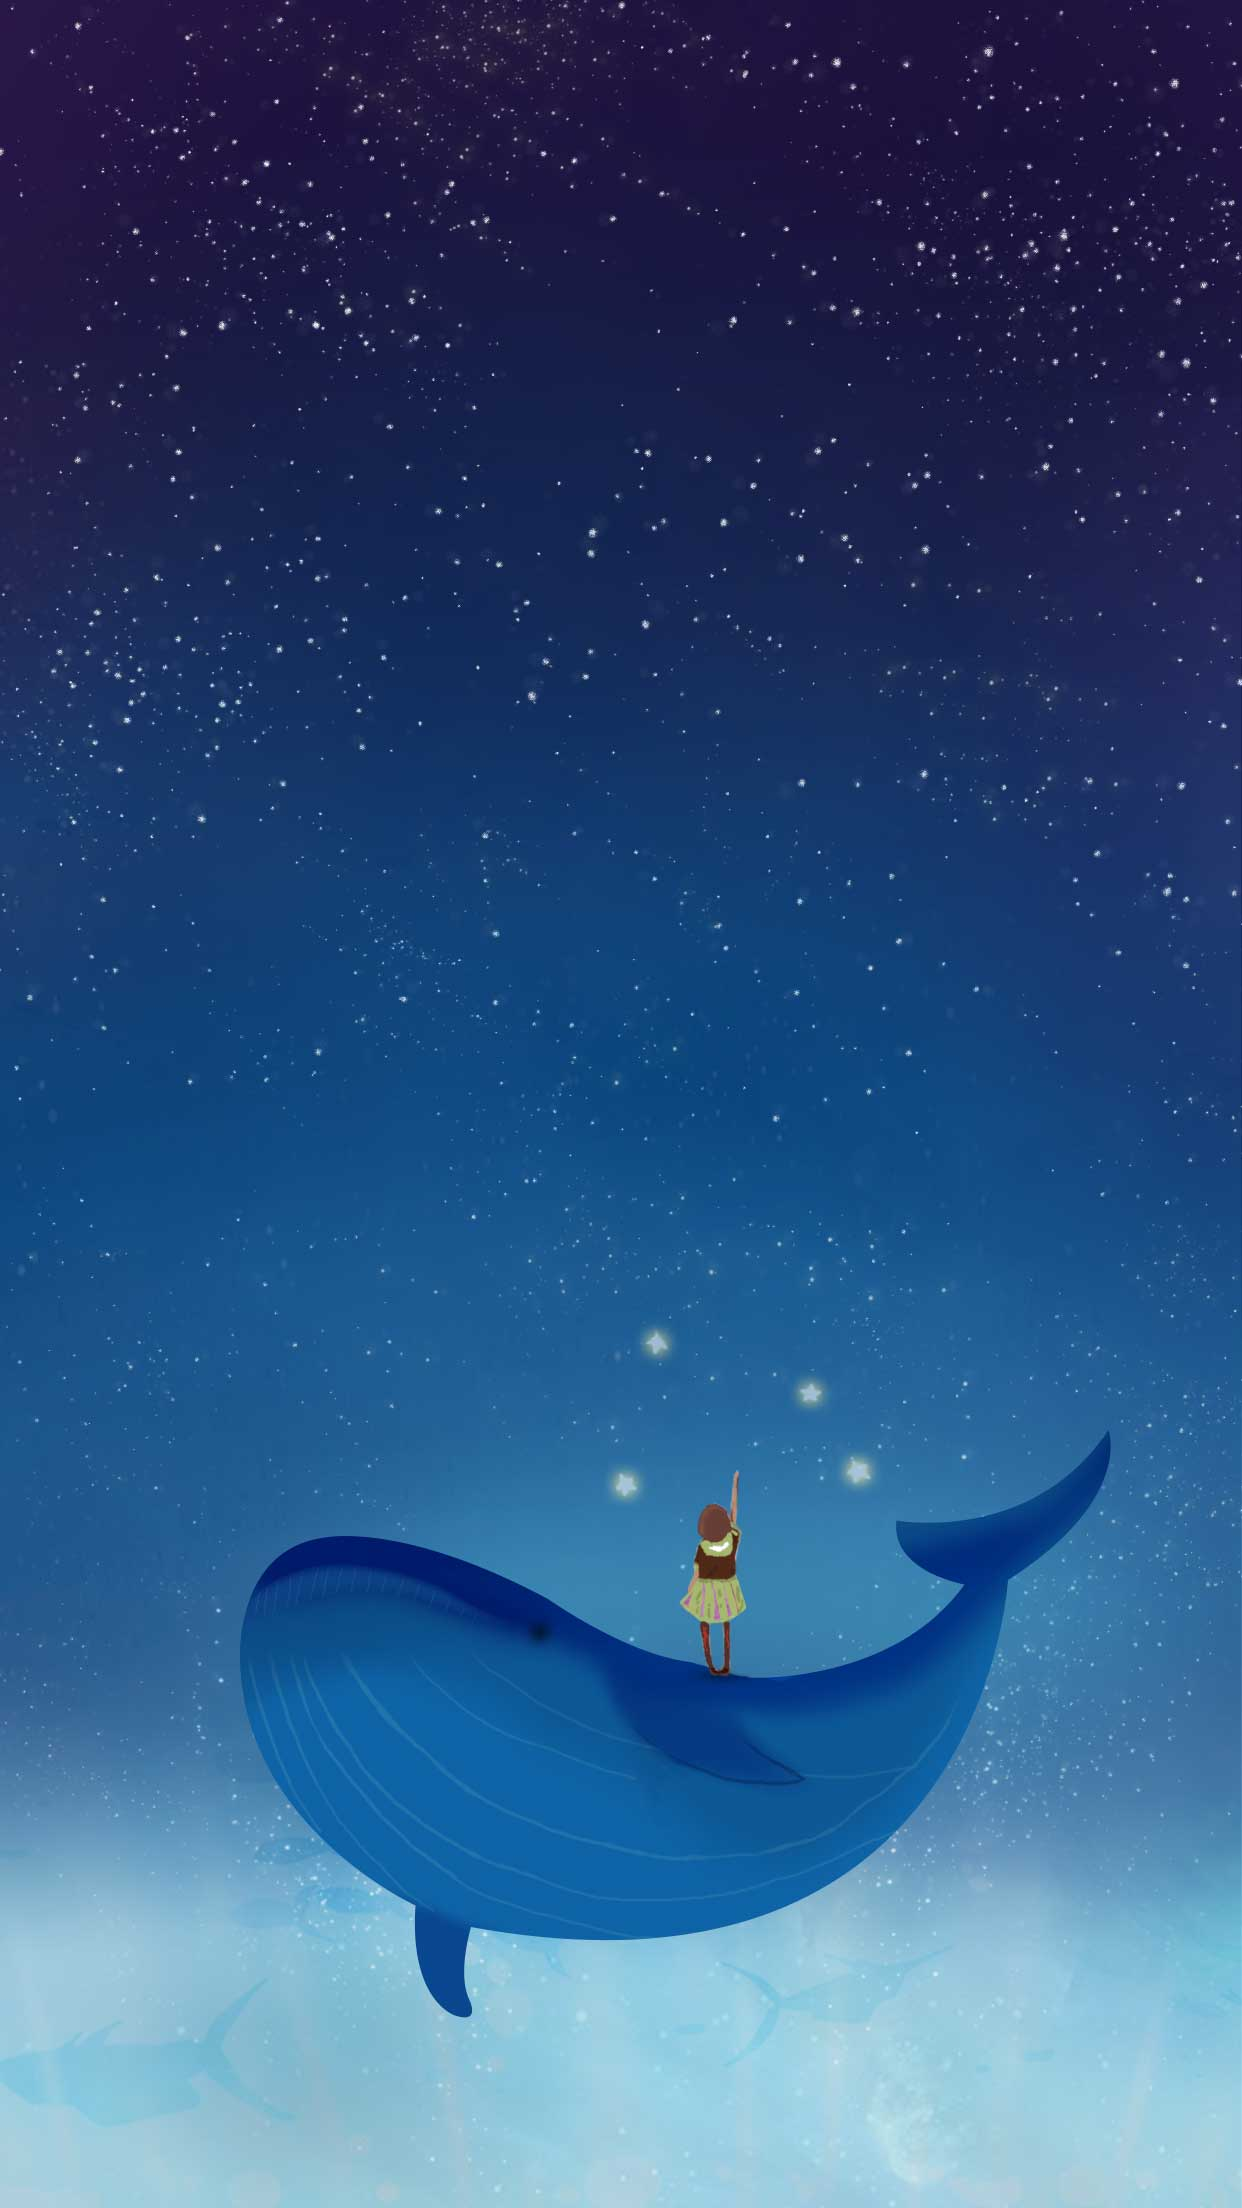
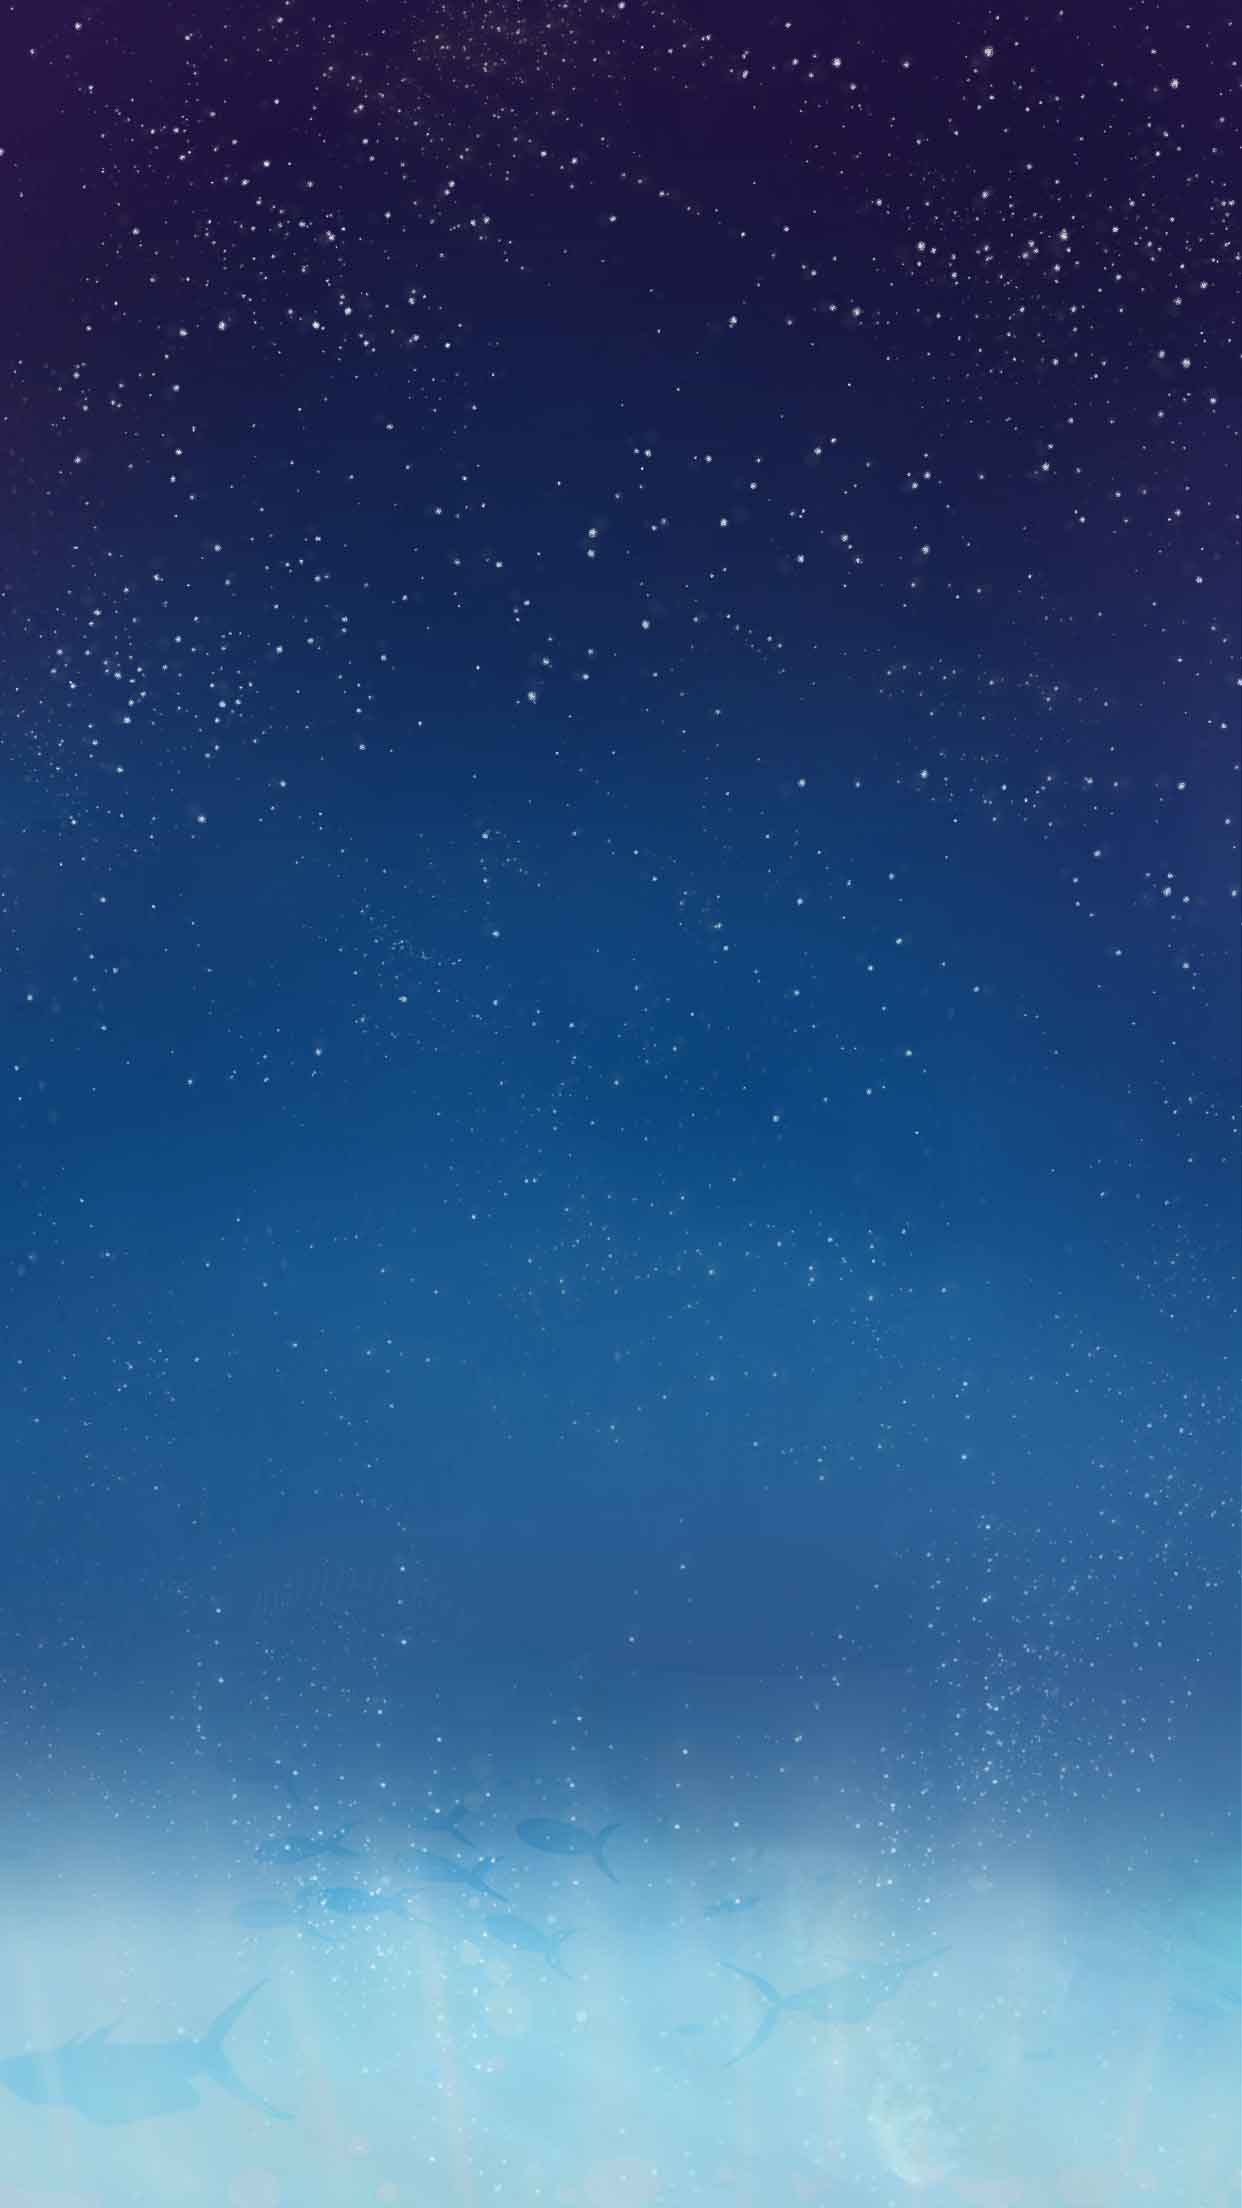
ci
ci

Changed region(s): [[0.1836, 0.625, 0.8873, 0.9688], [0.5201, 0.5938, 0.5507, 0.625]]

diff --git a/apps/timeline/components/Page2.js b/apps/timeline/components/Page2.js
@@ -74,6 +74,7 @@ var Page2 = React.createClass({
     console.log('this is Page2 rendering',this.state);
     var groupStyle = this.getGroupStyle();
     var imageStyle = this.getImageStyle();
+    var whaleStyle = this.getWhaleStyle();
     var pageIndex = this.props.pageIndex;
     // 
     return (
@@ -96,6 +97,7 @@ var Page2 = React.createClass({
           <Text style={this.getTitleStyle({top:200})}>获奖情况</Text>
           {honors}
         </Group>
+        <Image style={whaleStyle} src='/apps/timeline/components/res/whale.png' fadeIn={true} useBackingStore={true} />
       </Group>
     );
   },
@@ -140,6 +142,17 @@ var Page2 = React.createClass({
       left: 0,
       width: this.props.width,
       height: this.props.height,
+      backgroundColor: '#eee',
+      zIndex: IMAGE_LAYER_INDEX,
+      alpha: 1
+    };
+  },
+  getWhaleStyle: function () {
+    return {
+      top: this.props.height*0.6,
+      left: 0,
+      width: this.props.width,
+      height: 914*this.props.heightRatio,
       backgroundColor: '#eee',
       zIndex: IMAGE_LAYER_INDEX,
       alpha: 1

diff --git a/apps/timeline/components/Page4.js b/apps/timeline/components/Page4.js
@@ -71,11 +71,13 @@ var Page4 = React.createClass({
     console.log('name',name);
     var groupStyle = this.getGroupStyle();
     var imageStyle = this.getImageStyle();
-    var logoStyle = this.getLogoStyle();
+
     var textStyle = this.getTextStyle();
     var text2Style = this.getTextStyle();
     text2Style.top += 30*_temp.length;
     text2Style.fontSize =CONTENT_INSET; 
+    var logoStyle = this.getLogoStyle();
+    logoStyle.top = text2Style.top + 4*CONTENT_INSET+3*LINEHEIGHT;
     var pageIndex = this.props.pageIndex;
     return (
       <Group style={groupStyle}>
@@ -122,7 +124,7 @@ var Page4 = React.createClass({
   getLogoStyle : function(){
     var _w = 70*this.props.widthRatio;
     return {
-      top: 1776*this.props.heightRatio,
+      top: 1776*this.props.heightRatio,//this.props.height/2-4*CONTENT_INSET-3*LINEHEIGHT +(index+1)*LINEHEIGHT
       left: this.props.width/2-_w/2,
       width: _w,
       height: 57*this.props.heightRatio,

diff --git a/apps/timeline/components/goods/Stars.js b/apps/timeline/components/goods/Stars.js
@@ -43,7 +43,7 @@ var Stars = React.createClass({
       _lock = false;
     }
     var _newValue = increase?_a+_step:_a-_step;
-    console.log('This is stars call setState');
+    // console.log('This is stars call setState');
     this.setState({starsAlpha:_newValue,increaseLock:_lock});
     //待检测是否有重复
     // this._pendingAnimationFrame = requestAnimationFrame(this.changeAlpha);
@@ -78,7 +78,7 @@ var Stars = React.createClass({
     if(this.props.scrollTop!==0){
       this.stopAni();
     }
-    console.log('this is Stars rendering',this.state);
+    // console.log('this is Stars rendering',this.state);
     var _a = this.state.starsAlpha;
     if(items.length != 0){
       if (!this.state.increaseLock) {

diff --git a/apps/timeline/components/Page3.js b/apps/timeline/components/Page3.js
@@ -199,7 +199,7 @@ var Page3 = React.createClass({
       height:this.props.height,
       fontSize: CONTENT_INSET,
       lineHeight: LINEHEIGHT,
-      top: 180+(index+1)*LINEHEIGHT,//this.getTweeningValue('projectTop')+
+      top: this.props.height/2-4*CONTENT_INSET-3*LINEHEIGHT +(index+1)*LINEHEIGHT,//this.getTweeningValue('projectTop')+
       zIndex: 4,
       fontFace: FontFace('Georgia, serif'),
       textAlign:'center',

diff --git a/apps/timeline/components/goods/Star.js b/apps/timeline/components/goods/Star.js
@@ -102,7 +102,7 @@ var Star = React.createClass({
     this.height = 26 * this.props.heightRatio;
     console.log('star getImageStyle',this.props.widthRatio,this.props.heightRatio);
     return {
-      top: 1465*this.props.heightRatio,//this.getTweeningValue('top'),
+      top: this.props.height*0.664,//1465*this.props.heightRatio,
       left: 723*this.props.widthRatio,
       width: this.width,
       height: this.height,

diff --git a/lib/Image.js b/lib/Image.js
@@ -98,6 +98,7 @@ var Image = React.createClass({
   },
 
   handleImageLoad: function () {
+    console.log('image handleImageLoad');
     var imageAlpha = 1;
     if (this.props.fadeIn) {
       imageAlpha = 0;
